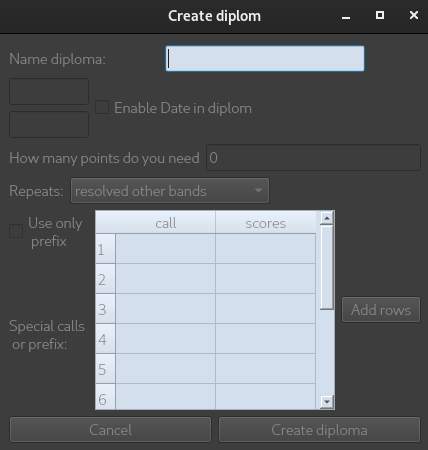
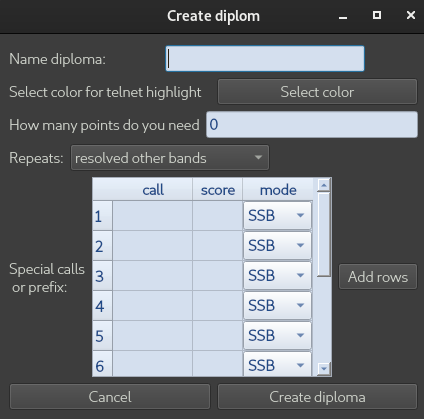
version 1.2

diff --git a/telnet_server/templates/telnet_server/index.html b/telnet_server/templates/telnet_server/index.html
@@ -29,9 +29,7 @@
 				<li class="nav-item">
 					<a class="nav-link" href="{% url 'htu' %}">How to use</a>
 				</li>
-				<li class="nav-item">
-					<a class="nav-link disabled" href="#">Feedback</a>
-				</li>
+
 
 			</ul>
 
@@ -70,10 +68,29 @@
 		<div class="col-md-6">
 		<div class="content" >
 			<div class="right">
-			data not escaped: {{ template.description|safe }}
+
 			<h3>Download:</h3>
-			<strong> LinuxLog v1.1 </strong>
+				<strong> LinuxLog v1.2 </strong>
 			<p class="options"><em>Latest version</em></p>
+			<p>
+			<a href = "https://drive.google.com/open?id=1jinoP6l9TLFIsYDFwglCgLo39YZ-qLJg" target="_blank">
+				Download installer</a>  for Ubuntu, Fedora, Debian, Mint, Rad-hat, CentOS, Manjaro
+			<br>
+			<a href = "https://drive.google.com/open?id=1aJAPCa3-hAj5d4xj-u3dOfX4_IBUO0ho" target="_blank">
+				Download alternative installer</a>  - for systems on base package manager apt, dnf or pacman (only Manjaro)
+			</p>
+
+			<h5>Whats new in version:</h5>
+				<ul>
+					<li>Added function of sending eQSL through the eqsl.cc service</li>
+					<li>Auto focus on main Log Form if click spot into cluster</li>
+					<li>Bug fix</li>
+
+				</ul>
+			<hr>
+
+			<strong> LinuxLog v1.1 </strong>
+
 			<p>
 			<a href = "https://drive.google.com/open?id=1Rt5LjfKWpTyWd_9UcWJV_1cHbp8Blzxx" target="_blank">
 				Download installer</a>  for Ubuntu, Fedora, Debian, Mint, Rad-hat, CentOS, Manjaro

diff --git a/telnet_server/templates/telnet_server/htu.html b/telnet_server/templates/telnet_server/htu.html
@@ -28,9 +28,7 @@
 				<li class="nav-item">
 					<a class="nav-link" href="{% url 'htu' %}">How to use</a>
 				</li>
-				<li class="nav-item">
-					<a class="nav-link disabled" href="#">Feedback</a>
-				</li>
+
 
 			</ul>
 		</div>
@@ -118,8 +116,8 @@
 					<li>
 					Name diploma - input field. In this field you need enter name diplom programm
 					</li>
-					<li>Enable Date in diplom - if you select this chek box - program wil working from start date to finish date.
-						Date start and finish selected in calendar</li>
+
+					<li>Select color for telnet highlight - button by select color for highlight in cluster, if cluster reciv call from call list for this diplom</li>
 					<li> How many points do you need - input field. How many points do you have to score enter in this field</li>
 					<li> Repeats - list of conditions for possible repeats </li>
 					<li> Table with columns - call and scores. Enter into strings all special callsign and how many points added this station  at complited QSO</li>
